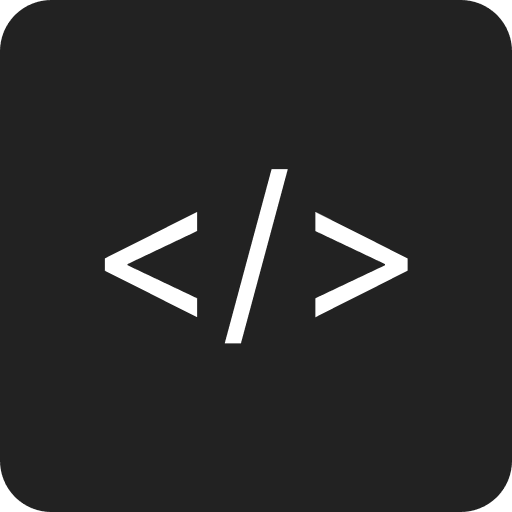
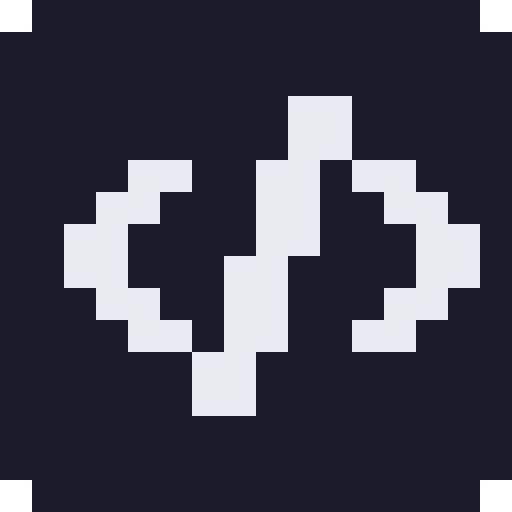
feat: tidy the pixel theme and restyle the 404 page
Remove the pieces that still contradicted the pixel theme and give the
site one selection cursor.

- Draw code blocks from the site palette: ink in both themes, with bold
  keywords, dimmed literals and dimmed italic comments.
- Drop the backticks around inline code.
- Left-align the homepage hero on mobile and remove the "About Me" heading.
- Remove underlines from nav items and entry titles at rest, and mark the
  current page in the nav.
- Show a pixel chevron beside a hovered or focused entry, replacing the
  checkerboard strip.
- Turn the 404 page into a "Continue?" menu that uses the same chevron.
- Set OG card titles in Jersey 10 and frame the photo like the homepage.
- Redraw the favicon as pixels.

diff --git a/src/pages/og/[slug].png.ts b/src/pages/og/[slug].png.ts
@@ -9,6 +9,7 @@ import { config } from "../../config";
 // Runs at build time in Node (see `prerenderEnvironment` in astro.config.mjs),
 // so paths are relative to the project root.
 const FONT_DIR = "src/assets/fonts/ibm-plex-mono";
+const DISPLAY_FONT = "node_modules/@fontsource/jersey-10/files/jersey-10-latin-400-normal.woff2";
 const AVATAR = "public/avatar.jpeg";
 // The homepage and other pages link to /og/site.png.
 const SITE_SLUG = "site";
@@ -50,11 +51,13 @@ let assets: Promise<Uint8Array> | undefined;
 // Registers the fonts once and returns the avatar bytes, shared by every card.
 const loadAssets = () =>
   (assets ??= (async () => {
-    const [regular, bold, avatar] = await Promise.all([
+    const [regular, bold, display, avatar] = await Promise.all([
       fs.readFile(`${FONT_DIR}/IBMPlexMono-Regular.ttf`),
       fs.readFile(`${FONT_DIR}/IBMPlexMono-Bold.ttf`),
-      sharp(AVATAR).resize(192, 192).jpeg({ quality: 85 }).toBuffer(),
+      fs.readFile(DISPLAY_FONT),
+      sharp(AVATAR).resize(320, 320).jpeg({ quality: 85 }).toBuffer(),
     ]);
+    await renderer.registerFont({ name: "Jersey 10", data: display, weight: 400 });
     await renderer.registerFont({ name: "IBM Plex Mono", data: regular, weight: 400 });
     await renderer.registerFont({ name: "IBM Plex Mono", data: bold, weight: 700 });
     return avatar;
@@ -62,11 +65,18 @@ const loadAssets = () =>
 
 const escapeHtml = (text: string) => text.replace(/[&<>"']/g, (char) => `&#${char.charCodeAt(0)};`);
 
+// Jersey 10 is only sharp at multiples of 56/3 px: these sizes draw its pixels at 6px and 4px.
+const TITLE_SIZE = { site: 112, post: 224 / 3 };
+
+// The same notched outline and hard shadow as `pixel-frame` in global.css, at twice the size.
+const FRAME =
+  "-8px 0 0 0 #e8ecf1, 8px 0 0 0 #e8ecf1, 0 -8px 0 0 #e8ecf1, 0 8px 0 0 #e8ecf1, 16px 8px 0 0 #3264c9, 8px 16px 0 0 #3264c9";
+
 const template = ({ title, subtitle, cta, avatar }: Props) => `
-  <div style="width:100%;height:100%;display:flex;flex-direction:column;justify-content:center;padding:0 80px;background:#1a1c2c;border-left:8px solid #3264c9;font-family:'IBM Plex Mono'">
-    ${avatar ? `<img src="avatar.jpeg" style="width:96px;height:96px;border-radius:9999px;object-fit:cover;margin-bottom:32px" />` : ""}
-    <div style="font-size:56px;font-weight:700;color:#e8ecf1;line-height:1.25">${escapeHtml(title)}</div>
-    <div style="font-size:26px;font-weight:400;color:#94b0c2;margin-top:36px">${escapeHtml(subtitle)}</div>
+  <div style="width:100%;height:100%;display:flex;flex-direction:column;justify-content:center;padding:0 80px;background:#1a1c2c;border-left:16px solid #3264c9;font-family:'IBM Plex Mono'">
+    ${avatar ? `<img src="avatar.jpeg" style="width:160px;height:160px;object-fit:cover;margin:0 0 48px 8px;box-shadow:${FRAME}" />` : ""}
+    <div style="font-family:'Jersey 10';font-size:${avatar ? TITLE_SIZE.site : TITLE_SIZE.post}px;color:#e8ecf1;line-height:1">${escapeHtml(title)}</div>
+    <div style="font-size:26px;font-weight:400;color:#94b0c2;margin-top:28px">${escapeHtml(subtitle)}</div>
     <div style="font-size:32px;font-weight:700;color:#e8ecf1;margin-top:18px">${escapeHtml(cta)}</div>
   </div>`;
 

diff --git a/src/styles/global.css b/src/styles/global.css
@@ -45,6 +45,23 @@
     --panel: var(--color-steel);
   }
 
+  /* Code blocks are ink in both themes, so their colours do not swap. Code is drawn in two
+     tones: literals and comments are dimmed, and the rules below set keywords in bold and
+     comments in italic. */
+  :root {
+    --astro-code-background: var(--color-ink);
+    --astro-code-foreground: var(--color-mist);
+    --astro-code-token-keyword: var(--color-mist);
+    --astro-code-token-function: var(--color-mist);
+    --astro-code-token-parameter: var(--color-mist);
+    --astro-code-token-punctuation: var(--color-mist);
+    --astro-code-token-constant: var(--color-steel);
+    --astro-code-token-string: var(--color-steel);
+    --astro-code-token-string-expression: var(--color-steel);
+    --astro-code-token-comment: var(--color-steel);
+    --astro-code-token-link: var(--color-steel);
+  }
+
   .dark {
     color-scheme: dark;
     --bg: var(--color-ink);
@@ -61,22 +78,6 @@
   /* Turn off anti-aliasing where the browser allows it, so the pixel font has hard edges. */
   .font-display {
     -webkit-font-smoothing: none;
-  }
-
-  /* On hover, a checkerboard strip marks the entry in the gutter to its left. */
-  .hover-marker:is(:hover, :focus-within)::before {
-    content: "";
-    position: absolute;
-    inset: 0 auto 0 -1rem;
-    width: 8px;
-    background: conic-gradient(
-        var(--color-accent) 25%,
-        transparent 0 50%,
-        var(--color-accent) 0 75%,
-        transparent 0
-      )
-      0 0 / 4px 4px;
-    pointer-events: none;
   }
 }
 
@@ -205,6 +206,18 @@
   & :where(pre) {
     border-radius: 0;
     @apply pixel-frame;
+  }
+  & :where(pre [style*="token-keyword"]) {
+    font-weight: 600;
+  }
+  & :where(pre [style*="token-comment"]) {
+    font-style: italic;
+  }
+
+  /* The filled background already marks inline code, so drop the plugin's backticks. */
+  & :where(code)::before,
+  & :where(code)::after {
+    content: none;
   }
 }
 

diff --git a/src/icons.ts b/src/icons.ts
@@ -93,6 +93,16 @@ export const icons = {
     ".#......",
     "........",
   ],
+  cursor: [
+    "##......",
+    "####....",
+    "######..",
+    "########",
+    "########",
+    "######..",
+    "####....",
+    "##......",
+  ],
   swissFlag: [
     "rrrrrrrr",
     "rrrwwrrr",
